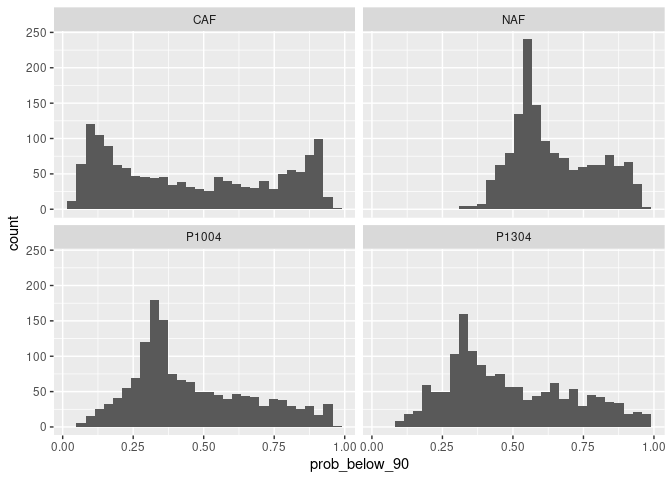
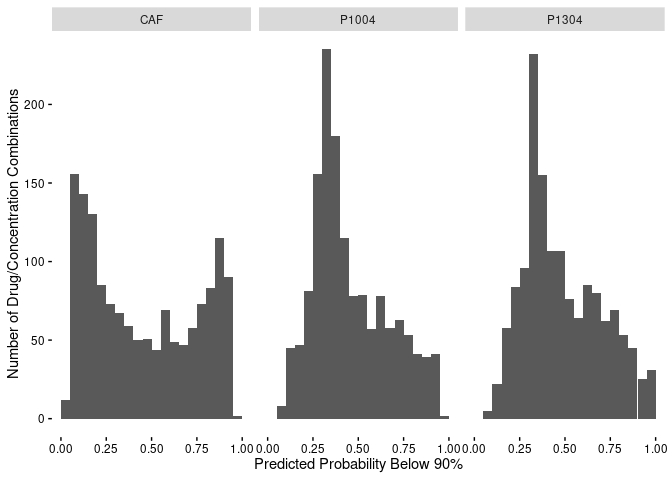
updating prediction results with different optimization results

diff --git a/src/klaeger_synergy_binary_predictions/build_klaeger_synergy_binary_predictions.md b/src/klaeger_synergy_binary_predictions/build_klaeger_synergy_binary_predictions.md
@@ -1,7 +1,7 @@
-Make Klaeger Synergy Viability Predictions
+Klaeger Synergy Viability Predictions
 ================
 Matthew Berginski
-2021-04-13
+2021-05-05
 
 # Read In and Combine Klaeger/Synergy Data
 
@@ -26,140 +26,84 @@ plates per cell line.
 
 # Modeling
 
-## Random Forest - Below 90 Models
+Build two sets of random forest models, one to predict whether a
+compound at a concentration will cause cell viability to dip below 90%
+and another to predict cell viability below 40%. Unique models are built
+for each of the cell lines in the data set.
 
-``` r
-tic()
+# Make Predictions Using Models
 
-binary_90_models = list()
+Now to use the models to make predictions on the remainder of the
+compounds in the Klaeger data set and build a few plots showing the
+distribution of viability predictions.
 
-prediction_results = c()
-for (this_cell_line in unique(klaeger_data_matches_full$cell_line)) {
-    
-    klaeger_data_cell_line = klaeger_data_matches_full %>%
-        filter(cell_line == this_cell_line) %>%
-        select(-drug,-drug_lower,-pdac,-concentration_M,-cell_line,-viability,-viability_binary_40) 
-    
-    rf_mod <-
-        rand_forest(trees = 1000) %>%
-        set_engine("ranger", num.threads = 12) %>%
-        set_mode("classification")
-    
-    binary_90_models[[this_cell_line]] <-
-        rf_mod %>%
-        fit(viability_binary_90 ~ ., data = klaeger_data_cell_line)
-}
-toc()
-```
-
-    ## 2.212 sec elapsed
-
-## Random Forest - Below 40 Models
-
-``` r
-tic()
-
-binary_40_models = list()
-
-prediction_results = c()
-for (this_cell_line in unique(klaeger_data_matches_full$cell_line)) {
-    
-    klaeger_data_cell_line = klaeger_data_matches_full %>%
-        filter(cell_line == this_cell_line) %>%
-        select(-drug,-drug_lower,-pdac,-concentration_M,-cell_line,-viability,-viability_binary_90) 
-    
-    rf_mod <-
-        rand_forest(trees = 1000) %>%
-        set_engine("ranger", num.threads = 12) %>%
-        set_mode("classification")
-    
-    binary_40_models[[this_cell_line]] <-
-        rf_mod %>%
-        fit(viability_binary_40 ~ ., data = klaeger_data_cell_line)
-}
-toc()
-```
-
-    ## 1.682 sec elapsed
-
-# Predictions
-
-## Below 90
-
-``` r
-below_90_predictions = data.frame()
-
-klaeger_prediction_wide_model_set = klaeger_prediction_wide %>%
-    select(-drug,-concentration_M)
-
-for (this_cell_line in names(binary_90_models)) {
-    this_cell_predictions = data.frame(
-        drug = klaeger_prediction_wide$drug,
-        concentration_M = klaeger_prediction_wide$concentration_M,
-        cell_line = this_cell_line,
-        prob_below_90 = predict(binary_90_models[[this_cell_line]],klaeger_prediction_wide_model_set, type="prob")$.pred_TRUE)
-
-    below_90_predictions = bind_rows(
-        below_90_predictions,
-        this_cell_predictions
-    )
-}
-
-below_90_predictions_cell = below_90_predictions %>% 
-    pivot_wider(names_from = "cell_line", values_from = "prob_below_90") %>%
-    mutate(caf_naf_diff = NAF - CAF)
-```
-
-``` r
-ggplot(below_90_predictions, aes(x=prob_below_90)) + geom_histogram()
-```
-
-    ## `stat_bin()` using `bins = 30`. Pick better value with `binwidth`.
+## Below 90% Cell Viability
 
 ![](build_klaeger_synergy_binary_predictions_files/figure-gfm/unnamed-chunk-6-1.png)<!-- -->
 
-``` r
-ggplot(below_90_predictions, aes(x=prob_below_90)) + geom_histogram() + facet_wrap(~cell_line)
-```
-
-    ## `stat_bin()` using `bins = 30`. Pick better value with `binwidth`.
-
 ![](build_klaeger_synergy_binary_predictions_files/figure-gfm/unnamed-chunk-7-1.png)<!-- -->
 
-## Below 40
-
-``` r
-below_40_predictions = data.frame()
-
-klaeger_prediction_wide_model_set = klaeger_prediction_wide %>%
-    select(-drug,-concentration_M)
-
-for (this_cell_line in names(binary_40_models)) {
-    this_cell_predictions = data.frame(
-        drug = klaeger_prediction_wide$drug,
-        concentration_M = klaeger_prediction_wide$concentration_M,
-        cell_line = this_cell_line,
-        prob_below_40 = predict(binary_40_models[[this_cell_line]],klaeger_prediction_wide_model_set, type="prob")$.pred_TRUE)
-
-    below_40_predictions = bind_rows(
-        below_40_predictions,
-        this_cell_predictions
-    )
-}
-```
-
-``` r
-ggplot(below_40_predictions, aes(x=prob_below_40)) + geom_histogram()
-```
-
-    ## `stat_bin()` using `bins = 30`. Pick better value with `binwidth`.
+## Below 40% Cell Viability
 
 ![](build_klaeger_synergy_binary_predictions_files/figure-gfm/unnamed-chunk-9-1.png)<!-- -->
 
-``` r
-ggplot(below_40_predictions, aes(x=prob_below_40)) + geom_histogram() + facet_wrap(~cell_line)
-```
-
-    ## `stat_bin()` using `bins = 30`. Pick better value with `binwidth`.
-
 ![](build_klaeger_synergy_binary_predictions_files/figure-gfm/unnamed-chunk-10-1.png)<!-- -->
+
+# Looking for Compounds to Test - Below 90 Predictions
+
+With predictions of the likelihood that the compounds will push cell
+viability below 90% or below 40%, the next step is to try to use these
+predictions to pick out compound that are likely to have interesting
+viability results. As for what interesting means, I’ve collected four
+types of interesting results:
+
+  - Compounds with Low Predicted Effect on Viability: Pick out the
+    compounds that are predicted to have no/minimal effect on viability.
+    This might seem to be the least interesting type of prediction at
+    first, but a model is only as good as it’s ability to predict
+    negative as well as positive results.
+  - Compounds with High Predicted Effect on Viability: Pick out the
+    compounds that are predicted to strongly decrease cell viability.
+  - Compounds with Large Differences across Concentrations: Pick out
+    compounds where the likelihood of affecting cell viability changes
+    across the predicted concentrations. These should be compounds where
+    low concentrations don’t affect cell viability, while high
+    concentrations start to inhibit cell growth.
+  - Compounds with Large Differences across Cell Lines: Pick out the
+    compounds with large differences between the cell lines. This one
+    seems kind of obvious as well, but if the model predicts large
+    differences between the cell lines, this is probably worth testing
+
+As for calculating all these, I’ve taken an approach that looks across
+all the cell lines simultaneously. Searching for across the board low
+effect and high effects is done by looking for the lowest and highest
+average probability on a per compound basis. Searching for large
+differences across concentrations is done by looking for the compounds
+with the highest range between probabilities. The final criteria
+(differences between cell lines) is a bit tougher to quantify, but what
+I’ve done is:
+
+  - matched up all the predictions across compound and concentration for
+    each cell line
+  - calculated the absolute value of all the combination of differences
+    in probability value
+      - We have three cell lines here (CAF, P1004 and P1304), so three
+        combinations (CAF/P1004), (CAF/P1304) and (P1004/P1304)
+  - find the compounds with the largest mean value across all
+    differences
+
+## Compounds with Low Predicted Effect
+
+![](build_klaeger_synergy_binary_predictions_files/figure-gfm/unnamed-chunk-13-1.png)<!-- -->
+
+## Compounds with High Predicted Effect
+
+![](build_klaeger_synergy_binary_predictions_files/figure-gfm/unnamed-chunk-14-1.png)<!-- -->
+
+## Compounds with High Predicted Differences Across Concentrations
+
+![](build_klaeger_synergy_binary_predictions_files/figure-gfm/unnamed-chunk-15-1.png)<!-- -->
+
+## Compounds with High Predicted Differences Between Cell Lines
+
+![](build_klaeger_synergy_binary_predictions_files/figure-gfm/unnamed-chunk-16-1.png)<!-- -->
